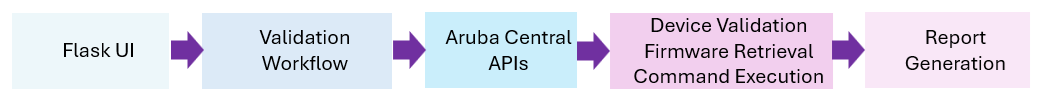
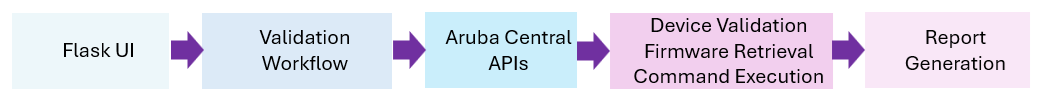
Add architecture diagram to README

diff --git a/cutover-validation/README.md b/cutover-validation/README.md
@@ -267,7 +267,7 @@ The web interface is built using:
 <h1>Architecture</h1>
 
 <p align="center">
-  <img src="images/architecture.png" alt="Architecture Diagram" width="900">
+  <img src="images/architecture.png" alt="Architecture Diagram" width="800">
 </p>
 
 
